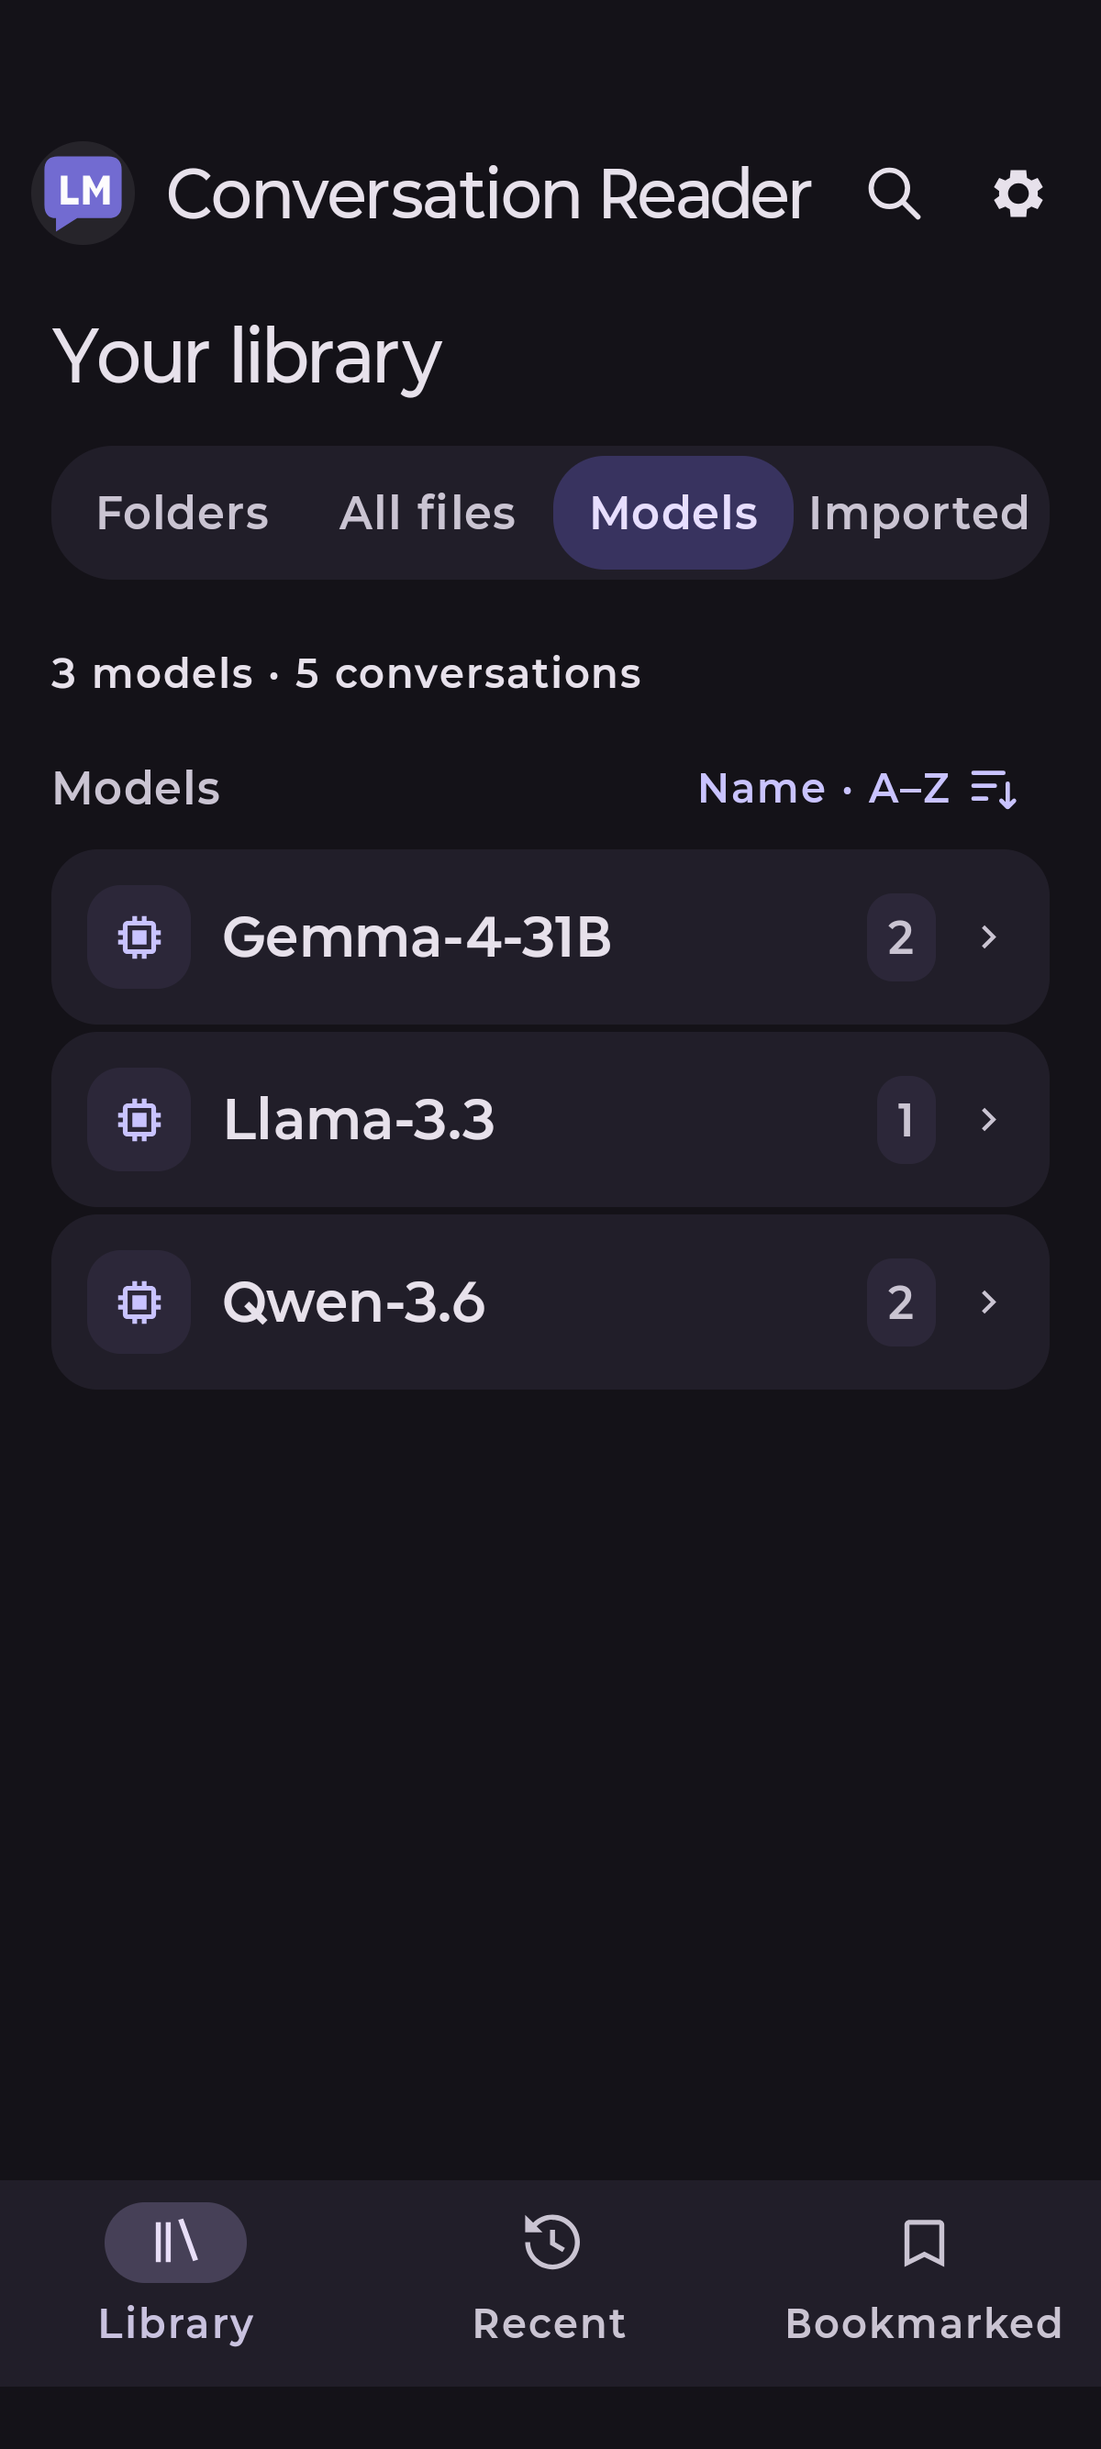
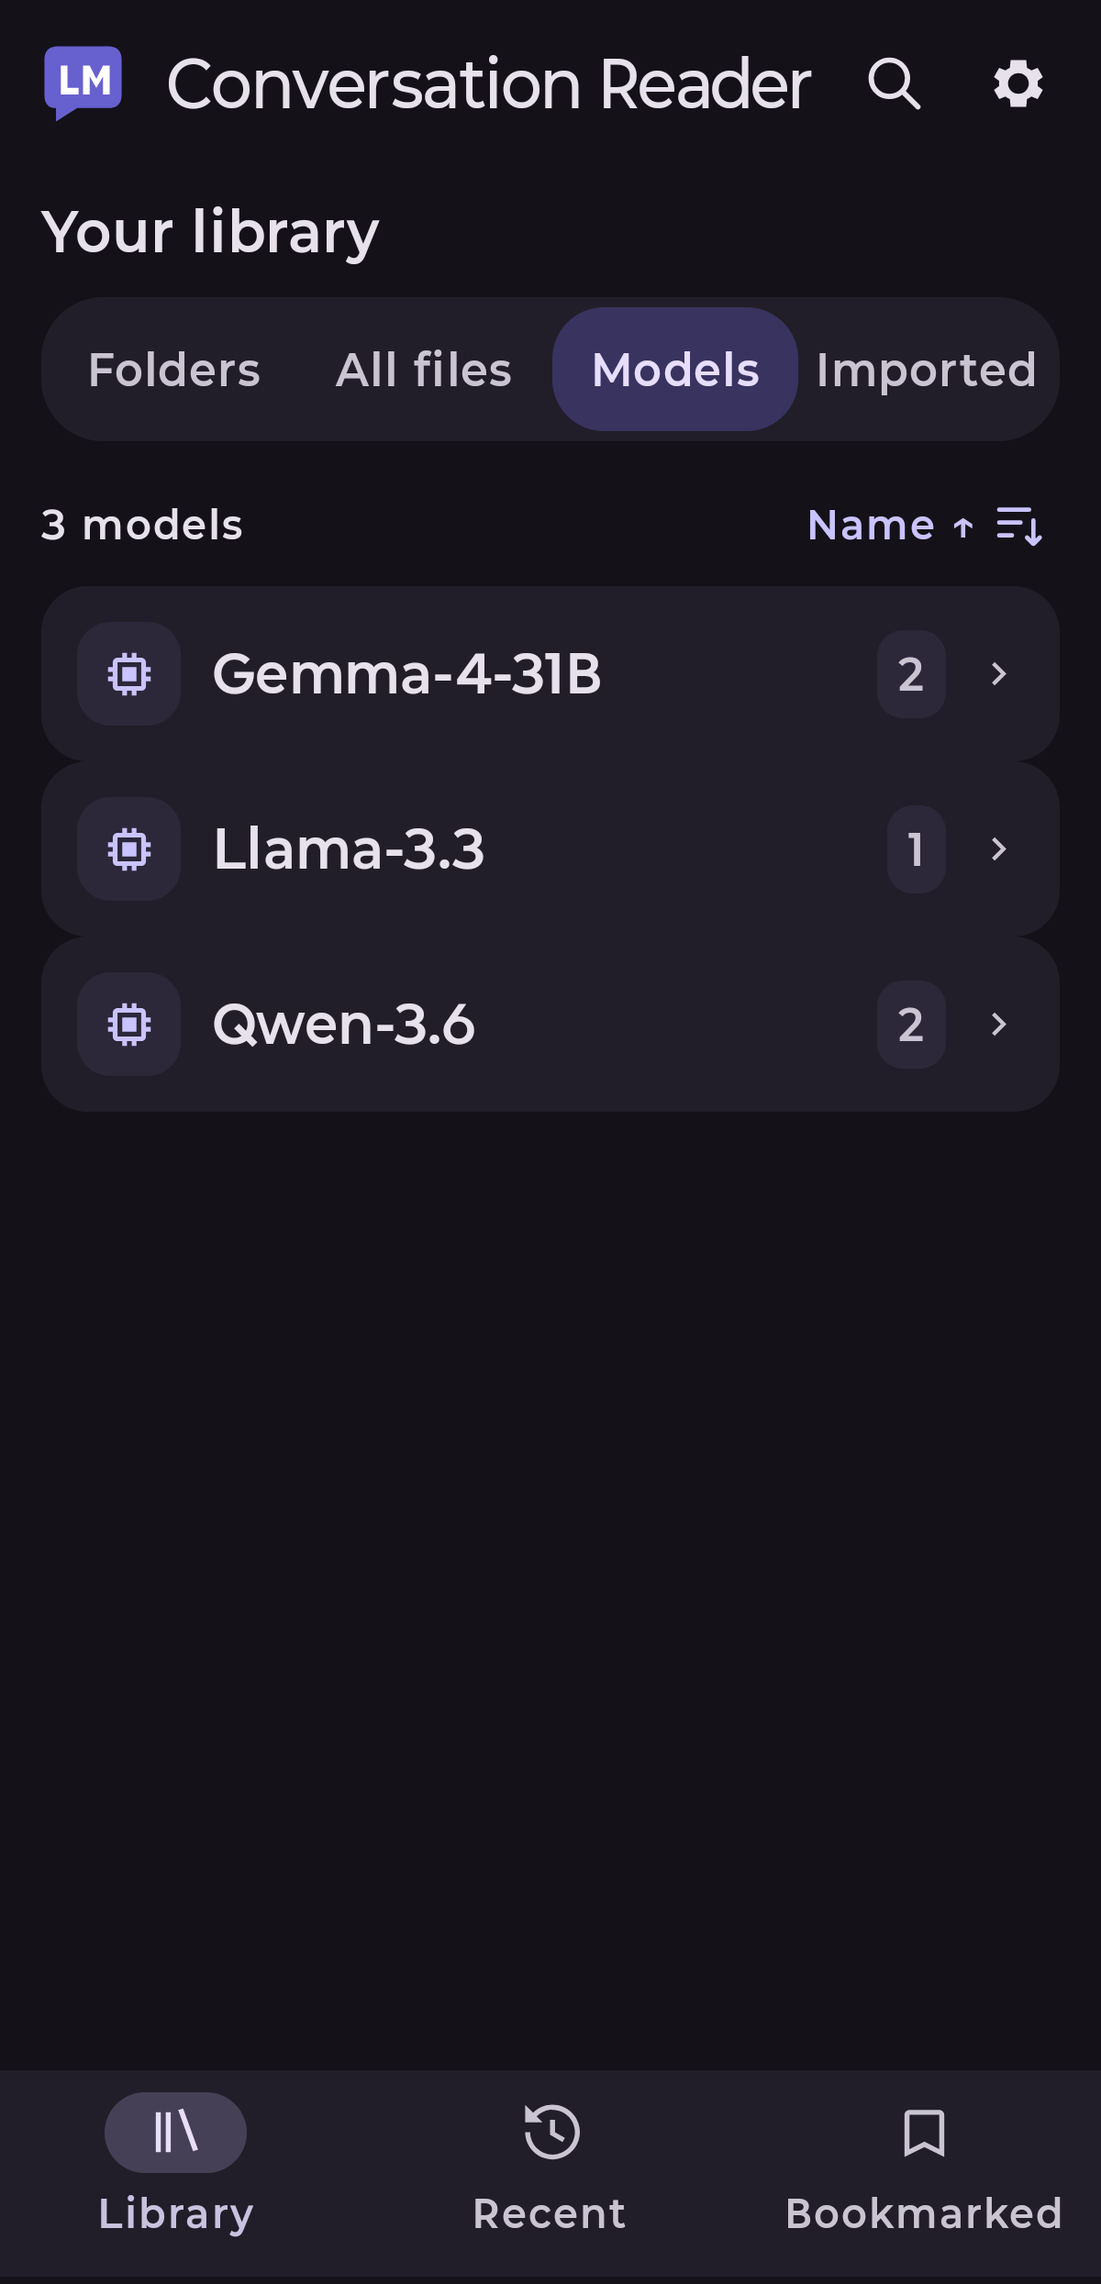
Add update checks and refresh screenshots for 0.10.12

diff --git a/app/src/main/java/cz/jan/conversationreader/ReaderControls.kt b/app/src/main/java/cz/jan/conversationreader/ReaderControls.kt
@@ -160,6 +160,46 @@ fun SearchResultsBar(current: Int, total: Int, complete: Boolean, onPrevious: ()
 @Composable
 fun PreferencesScreen(main: Boolean, folder: String?, fontSize: Float, theme: String, collapse: Boolean, onClose: () -> Unit, onFolder: () -> Unit, onFont: (Float) -> Unit, onTheme: (String) -> Unit, onCollapse: (Boolean) -> Unit, style: ReaderStyle = ReaderStyle(), onStyle: (ReaderStyle) -> Unit = {}) {
     val context = LocalContext.current
+    if (main) {
+        ReaderDetailScreen("Settings", onClose, compact = true) {
+            Text("Linked folder", style = MaterialTheme.typography.titleMedium, color = MaterialTheme.colorScheme.onSurfaceVariant)
+            FilledTonalButton(onClick = onFolder, modifier = Modifier.fillMaxWidth(), contentPadding = PaddingValues(horizontal = 16.dp, vertical = 4.dp)) {
+                Row(Modifier.fillMaxWidth(), verticalAlignment = Alignment.CenterVertically, horizontalArrangement = Arrangement.spacedBy(8.dp)) {
+                    Text(if (folder == null) "Link a folder" else "Change folder", style = MaterialTheme.typography.labelLarge)
+                    folder?.let { Text(Uri.decode(it).substringAfterLast(":"), Modifier.weight(1f), style = MaterialTheme.typography.bodySmall, textAlign = androidx.compose.ui.text.style.TextAlign.End, maxLines = 2, overflow = TextOverflow.Ellipsis) }
+                }
+            }
+            Spacer(Modifier.height(8.dp))
+            Row(Modifier.fillMaxWidth(), verticalAlignment = Alignment.CenterVertically) {
+                Column(Modifier.weight(1f).padding(end = 8.dp)) {
+                    Text("Collapse by prompts", style = MaterialTheme.typography.titleMedium)
+                    Text("Show prompt previews when opening a conversation", style = MaterialTheme.typography.bodySmall)
+                }
+                Switch(collapse, onCollapse, modifier = Modifier.semantics { contentDescription = "Collapse by prompts" })
+            }
+            Spacer(Modifier.height(8.dp))
+            Row(Modifier.fillMaxWidth(), verticalAlignment = Alignment.CenterVertically) {
+                Text("Text size", Modifier.weight(1f), style = MaterialTheme.typography.titleMedium)
+                Text("${fontSize.toInt()} sp", style = MaterialTheme.typography.labelLarge)
+            }
+            Slider(fontSize, onFont, valueRange = 14f..26f, steps = 11, modifier = Modifier.semantics {
+                contentDescription = "Text size"; stateDescription = "${fontSize.toInt()} sp"
+            })
+            Spacer(Modifier.height(8.dp))
+            Text("Theme", style = MaterialTheme.typography.titleMedium)
+            Row(Modifier.fillMaxWidth().selectableGroup(), horizontalArrangement = Arrangement.spacedBy(4.dp)) {
+                listOf("Light", "Dark", "System").forEach { choice -> ThemeChoice(choice, theme, onTheme, Modifier.weight(1f)) }
+            }
+            Spacer(Modifier.height(8.dp))
+            Text("About", style = MaterialTheme.typography.titleMedium)
+            TextButton(onClick = { context.startActivity(Intent(Intent.ACTION_VIEW, Uri.parse("https://github.com/jen9czech/lm-studio-conversation-reader"))) },
+                contentPadding = PaddingValues(horizontal = 0.dp), modifier = Modifier.semantics { onClick(label = "Open GitHub project", action = null) }) {
+                Text("Version ${BuildConfig.VERSION_NAME} (build ${BuildConfig.VERSION_CODE}) · ${BuildConfig.UPDATED_DATE} ↗", style = MaterialTheme.typography.labelMedium)
+            }
+            Row(Modifier.fillMaxWidth(), horizontalArrangement = Arrangement.Center) { UpdateCheckButton() }
+        }
+        return
+    }
     val controls: @Composable ColumnScope.() -> Unit = {
         if (main) {
             DetailSection("Linked folder") {
@@ -177,28 +217,19 @@ fun PreferencesScreen(main: Boolean, folder: String?, fontSize: Float, theme: St
                 }
             }
         }
-        DetailSection("Text size", compact = !main) {
+        DetailSection("Text size", compact = !main, largerHeading = true) {
             Text("${fontSize.toInt()} sp", style = MaterialTheme.typography.titleMedium)
             Slider(fontSize, onFont, valueRange = 14f..26f, steps = 11, modifier = Modifier.semantics {
                 contentDescription = "Text size"
                 stateDescription = "${fontSize.toInt()} sp"
             })
         }
-        DetailSection("Font", compact = !main) {
-            Column(Modifier.selectableGroup()) {
-                listOf("Sans-serif", "Serif", "Monospaced").forEach { font ->
-                    Row(Modifier.fillMaxWidth().selectable(selected = style.font == font, role = Role.RadioButton, onClick = { onStyle(style.copy(font = font)) }).padding(vertical = if (main) 4.dp else 0.dp), verticalAlignment = Alignment.CenterVertically) {
-                        RadioButton(selected = style.font == font, onClick = null)
-                        Column(Modifier.padding(start = 8.dp)) {
-                            Text(readerFontName(font), fontFamily = readerFontFamily(font), style = MaterialTheme.typography.titleMedium)
-                        }
-                    }
-                }
-            }
+        DetailSection("Font", compact = !main, largerHeading = true) {
+            FontChoices(style, onStyle)
         }
-        DetailSection("Theme", compact = !main) {
+        DetailSection("Theme", compact = !main, largerHeading = true) {
             Row(Modifier.fillMaxWidth().selectableGroup(), horizontalArrangement = Arrangement.spacedBy(4.dp)) {
-                listOf("Light", "Dark", "System").forEach { choice -> ThemeChoice(choice, theme, onTheme, Modifier.weight(if (choice == "System") 1.7f else 1f)) }
+                listOf("Light", "Dark", "System").forEach { choice -> ThemeChoice(choice, theme, onTheme, Modifier.weight(1f)) }
             }
         }
 
@@ -213,6 +244,22 @@ fun PreferencesScreen(main: Boolean, folder: String?, fontSize: Float, theme: St
     }
     if (main) ReaderDetailScreen("Settings", onClose, content = controls)
     else ControlsSheet("Reading preferences", onClose, allowPartial = true, content = controls)
+}
+
+@Composable
+private fun FontChoices(style: ReaderStyle, onStyle: (ReaderStyle) -> Unit) {
+    Row(Modifier.fillMaxWidth().selectableGroup(), horizontalArrangement = Arrangement.spacedBy(6.dp)) {
+        listOf("Sans-serif", "Serif", "Monospaced").forEach { font ->
+            val selected = style.font == font
+            Surface(modifier = Modifier.weight(1f).heightIn(min = 64.dp).selectable(selected, role = Role.RadioButton) { onStyle(style.copy(font = font)) },
+                shape = MaterialTheme.shapes.medium, color = if (selected) MaterialTheme.colorScheme.primaryContainer else MaterialTheme.colorScheme.surfaceContainerHigh) {
+                Box(Modifier.fillMaxWidth().heightIn(min = 64.dp).padding(horizontal = 4.dp, vertical = 6.dp), contentAlignment = Alignment.Center) {
+                    val label = when (font) { "Sans-serif" -> "Sans-\nserif"; "Serif" -> "Liberation\nSerif"; else -> "Courier\nPrime" }
+                    Text(label, fontFamily = readerFontFamily(font), style = MaterialTheme.typography.labelMedium, textAlign = androidx.compose.ui.text.style.TextAlign.Center, maxLines = 2, overflow = TextOverflow.Ellipsis)
+                }
+            }
+        }
+    }
 }
 
 @OptIn(ExperimentalMaterial3Api::class)
@@ -258,9 +305,9 @@ internal fun ReaderDetailScreen(title: String, onClose: () -> Unit, compact: Boo
 }
 
 @Composable
-internal fun DetailSection(title: String, compact: Boolean = false, content: @Composable ColumnScope.() -> Unit) {
+internal fun DetailSection(title: String, compact: Boolean = false, largerHeading: Boolean = false, content: @Composable ColumnScope.() -> Unit) {
     Column(Modifier.fillMaxWidth(), verticalArrangement = Arrangement.spacedBy(if (compact) 4.dp else 10.dp)) {
-        Text(title, Modifier.padding(start = 4.dp).semantics { heading() }, style = MaterialTheme.typography.labelLarge, color = MaterialTheme.colorScheme.onSurfaceVariant)
+        Text(title, Modifier.padding(start = 4.dp).semantics { heading() }, style = if (largerHeading) MaterialTheme.typography.titleMedium else MaterialTheme.typography.labelLarge, color = MaterialTheme.colorScheme.onSurfaceVariant)
         Surface(shape = androidx.compose.foundation.shape.RoundedCornerShape(24.dp), color = MaterialTheme.colorScheme.surfaceContainer) {
             Column(Modifier.fillMaxWidth().padding(if (compact) 12.dp else 18.dp), verticalArrangement = Arrangement.spacedBy(if (compact) 4.dp else 12.dp), content = content)
         }

diff --git a/app/src/main/java/cz/jan/conversationreader/AppUpdates.kt b/app/src/main/java/cz/jan/conversationreader/AppUpdates.kt
@@ -1,0 +1,68 @@
+package cz.jan.conversationreader
+
+import android.content.Intent
+import android.net.Uri
+import androidx.compose.material3.*
+import androidx.compose.runtime.*
+import androidx.compose.ui.platform.LocalContext
+import kotlinx.coroutines.Dispatchers
+import kotlinx.coroutines.launch
+import kotlinx.coroutines.withContext
+import org.json.JSONObject
+import java.net.HttpURLConnection
+import java.net.URL
+
+internal fun versionParts(value: String): List<Int>? {
+    val match = Regex("^v?(\\d+)\\.(\\d+)\\.(\\d+)$").matchEntire(value) ?: return null
+    return match.groupValues.drop(1).map { it.toIntOrNull() ?: return null }
+}
+
+internal fun isNewerVersion(candidate: String, installed: String): Boolean {
+    val a = versionParts(candidate) ?: return false
+    val b = versionParts(installed) ?: return false
+    return a.zip(b).firstOrNull { (x, y) -> x != y }?.let { (x, y) -> x > y } ?: false
+}
+
+private fun latestRelease(): String {
+    val connection = URL("https://api.github.com/repos/jen9czech/lm-studio-conversation-reader/releases/latest").openConnection() as HttpURLConnection
+    try {
+        connection.connectTimeout = 10000
+        connection.readTimeout = 10000
+        connection.setRequestProperty("Accept", "application/vnd.github+json")
+        connection.setRequestProperty("User-Agent", "ConversationReader-Android")
+        check(connection.responseCode == 200) { "GitHub returned HTTP ${connection.responseCode}" }
+        val response = connection.inputStream.bufferedReader().use { it.readText() }
+        return JSONObject(response).getString("tag_name").also { require(versionParts(it) != null) { "Unrecognized release version" } }
+    } finally { connection.disconnect() }
+}
+
+@Composable
+internal fun UpdateCheckButton() {
+    val scope = rememberCoroutineScope()
+    val context = LocalContext.current
+    var checking by remember { mutableStateOf(false) }
+    var result by remember { mutableStateOf<String?>(null) }
+    var updateTag by remember { mutableStateOf<String?>(null) }
+    FilledTonalButton(enabled = !checking, onClick = {
+        checking = true
+        scope.launch {
+            val check = runCatching { withContext(Dispatchers.IO) { latestRelease() } }
+            updateTag = check.getOrNull()?.takeIf { isNewerVersion(it, BuildConfig.VERSION_NAME) }
+            result = check.fold(
+                onSuccess = { if (updateTag != null) "Version ${it.removePrefix("v")} is available. Open the release page to download its APK and install it using Android." else "You have the latest released version." },
+                onFailure = { "Couldn’t check GitHub for updates. Check your Internet connection and try again." }
+            )
+            checking = false
+        }
+    }) { Text(if (checking) "Checking for updates…" else "Check for updates") }
+    result?.let { message ->
+        AlertDialog(onDismissRequest = { result = null }, title = { Text(if (updateTag != null) "Update available" else "App updates") },
+            text = { Text(message) }, confirmButton = {
+                TextButton(onClick = {
+                    val tag = updateTag
+                    result = null
+                    if (tag != null) runCatching { context.startActivity(Intent(Intent.ACTION_VIEW, Uri.parse("https://github.com/jen9czech/lm-studio-conversation-reader/releases/tag/$tag"))) }
+                }) { Text(if (updateTag != null) "Open download" else "OK") }
+            }, dismissButton = if (updateTag != null) ({ TextButton(onClick = { result = null }) { Text("Later") } }) else null)
+    }
+}

diff --git a/app/src/main/java/cz/jan/conversationreader/MainActivity.kt b/app/src/main/java/cz/jan/conversationreader/MainActivity.kt
@@ -69,6 +69,11 @@ class MainActivity : ComponentActivity() {
 fun ReaderApp() {
     val context = LocalContext.current
     val store = remember { LibraryStore(context) }
+    var showWhatsNew by remember {
+        val prefs = store.preferences
+        val prior = prefs.getInt("lastSeenVersionCode", if (prefs.all.isEmpty()) BuildConfig.VERSION_CODE else 48)
+        mutableStateOf(prior < BuildConfig.VERSION_CODE)
+    }
     val scope = rememberCoroutineScope()
     var entries by remember { mutableStateOf<List<ImportedConversation>>(emptyList()) }
     var resumeReading by rememberSaveable { mutableStateOf(false) }
@@ -124,6 +129,11 @@ fun ReaderApp() {
     val interfaceScale = (fontSize / 17f).coerceIn(.85f, 1.30f)
     val typography = remember(interfaceScale) { readerInterfaceTypography(interfaceScale) }
     MaterialTheme(colorScheme = if (theme == "Dark" || (theme == "System" && isSystemInDarkTheme())) Night else Day, typography = typography) {
+        if (showWhatsNew) AlertDialog(onDismissRequest = { showWhatsNew = false; store.preferences.edit().putInt("lastSeenVersionCode", BuildConfig.VERSION_CODE).apply() },
+            title = { Text("What’s new in ${BuildConfig.VERSION_NAME}") },
+            text = { Text("• Check GitHub for new versions from Settings.\n• More compact Settings with font previews.\n• Improved prompt navigation and generation information.") },
+            confirmButton = { TextButton(onClick = { showWhatsNew = false; store.preferences.edit().putInt("lastSeenVersionCode", BuildConfig.VERSION_CODE).apply() }) { Text("Got it") } })
+        LaunchedEffect(showWhatsNew) { if (!showWhatsNew) store.preferences.edit().putInt("lastSeenVersionCode", BuildConfig.VERSION_CODE).apply() }
         Scaffold(
             topBar = {
             }, snackbarHost = { SnackbarHost(snackbars) }

diff --git a/app/src/test/java/cz/jan/conversationreader/AppUpdatesTest.kt b/app/src/test/java/cz/jan/conversationreader/AppUpdatesTest.kt
@@ -1,0 +1,14 @@
+package cz.jan.conversationreader
+
+import org.junit.Assert.*
+import org.junit.Test
+
+class AppUpdatesTest {
+    @Test fun comparesReleaseVersionsNumerically() {
+        assertTrue(isNewerVersion("v0.10.12", "0.10.9"))
+        assertTrue(isNewerVersion("v1.0.0", "0.99.99"))
+        assertFalse(isNewerVersion("v0.10.11", "0.10.12"))
+        assertFalse(isNewerVersion("v0.10.12", "0.10.12"))
+        assertFalse(isNewerVersion("v0.10.13-beta", "0.10.12"))
+    }
+}

diff --git a/README.md b/README.md
@@ -4,7 +4,7 @@
 
 Take your stories, research, coding answers and late-night rabbit holes with you. Conversation Reader turns saved LM Studio chats into a comfortable Android reading experience, with formatted replies, a searchable library and a place waiting for you when you come back. A calm purple interface keeps Library, Recent and Bookmarked within easy reach.
 
-**Offline. Private. Open source.** No account or connection to LM Studio required.
+**Private and open source.** Read offline without an account or connection to LM Studio.
 
 [**Download the Android APK**](https://github.com/jen9czech/lm-studio-conversation-reader/releases/latest) · Android 8.0+ · [MIT license](LICENSE)
 
@@ -13,23 +13,19 @@ Compatible with **LM Studio 0.4.28 (Build 2)** conversation JSON files.
 ## A look inside
 
 <table>
+  <tr><th>Browse by model</th><th>Prompt overview</th><th>Bookmarked conversations</th></tr>
   <tr>
-    <th>Your library</th>
-    <th>Time to read</th>
-    <th>Prompt overview</th>
-  </tr>
-  <tr>
-    <td><img src="docs/screenshots/library.png" width="260" alt="Conversation library with prompt and word counts and bottom navigation"></td>
-    <td><img src="docs/screenshots/reading.png" width="260" alt="A formatted conversation with prompt, Markdown reply and reading navigation"></td>
-    <td><img src="docs/screenshots/prompts.png" width="260" alt="Collapsed prompt preview with reply word count and headings"></td>
+    <td><img src="docs/screenshots/models.png" width="260" alt="Models view grouping conversations by model"></td>
+    <td><img src="docs/screenshots/prompts.png" width="260" alt="Several prompt previews with reply word counts and nested Markdown headings"></td>
+    <td><img src="docs/screenshots/bookmarked.png" width="260" alt="Bookmarked conversations with highlighted stars"></td>
   </tr>
 </table>
-
 <table>
-  <tr><th>Sort your library</th><th>Reading preferences</th></tr>
+  <tr><th>Sort conversations</th><th>Reading view</th><th>Settings</th></tr>
   <tr>
-    <td><img src="docs/screenshots/sorting.png" width="260" alt="Open sorting options for date, name and length with ascending and descending controls"></td>
-    <td><img src="docs/screenshots/preferences.png" width="260" alt="Reading preferences for text size, font and theme"></td>
+    <td><img src="docs/screenshots/sorting.png" width="260" alt="Conversation sorting options for date, name, length and direction"></td>
+    <td><img src="docs/screenshots/reading.png" width="260" alt="Formatted conversation with prompt and Markdown reply"></td>
+    <td><img src="docs/screenshots/settings.png" width="260" alt="Settings for linked folder, prompt previews, text size, theme and updates"></td>
   </tr>
 </table>
 
@@ -58,7 +54,7 @@ Install updates over the existing app to retain your library and preferences. Op
 
 Linked conversations open directly and remain unchanged. Importing an individual file creates an independent local copy in Imported; simply opening a linked conversation does not import it.
 
-The app has **no Internet permission**, accounts, telemetry or cloud backup. Its search index stays on the device. Web and email links open external apps only when you select them.
+The app uses Internet access only when you choose to check GitHub for updates. Conversation files and the search index stay on your device; the app has no accounts, telemetry or cloud backup. Web and email links open external apps only when you select them.
 
 ## Compatibility and scope
 
